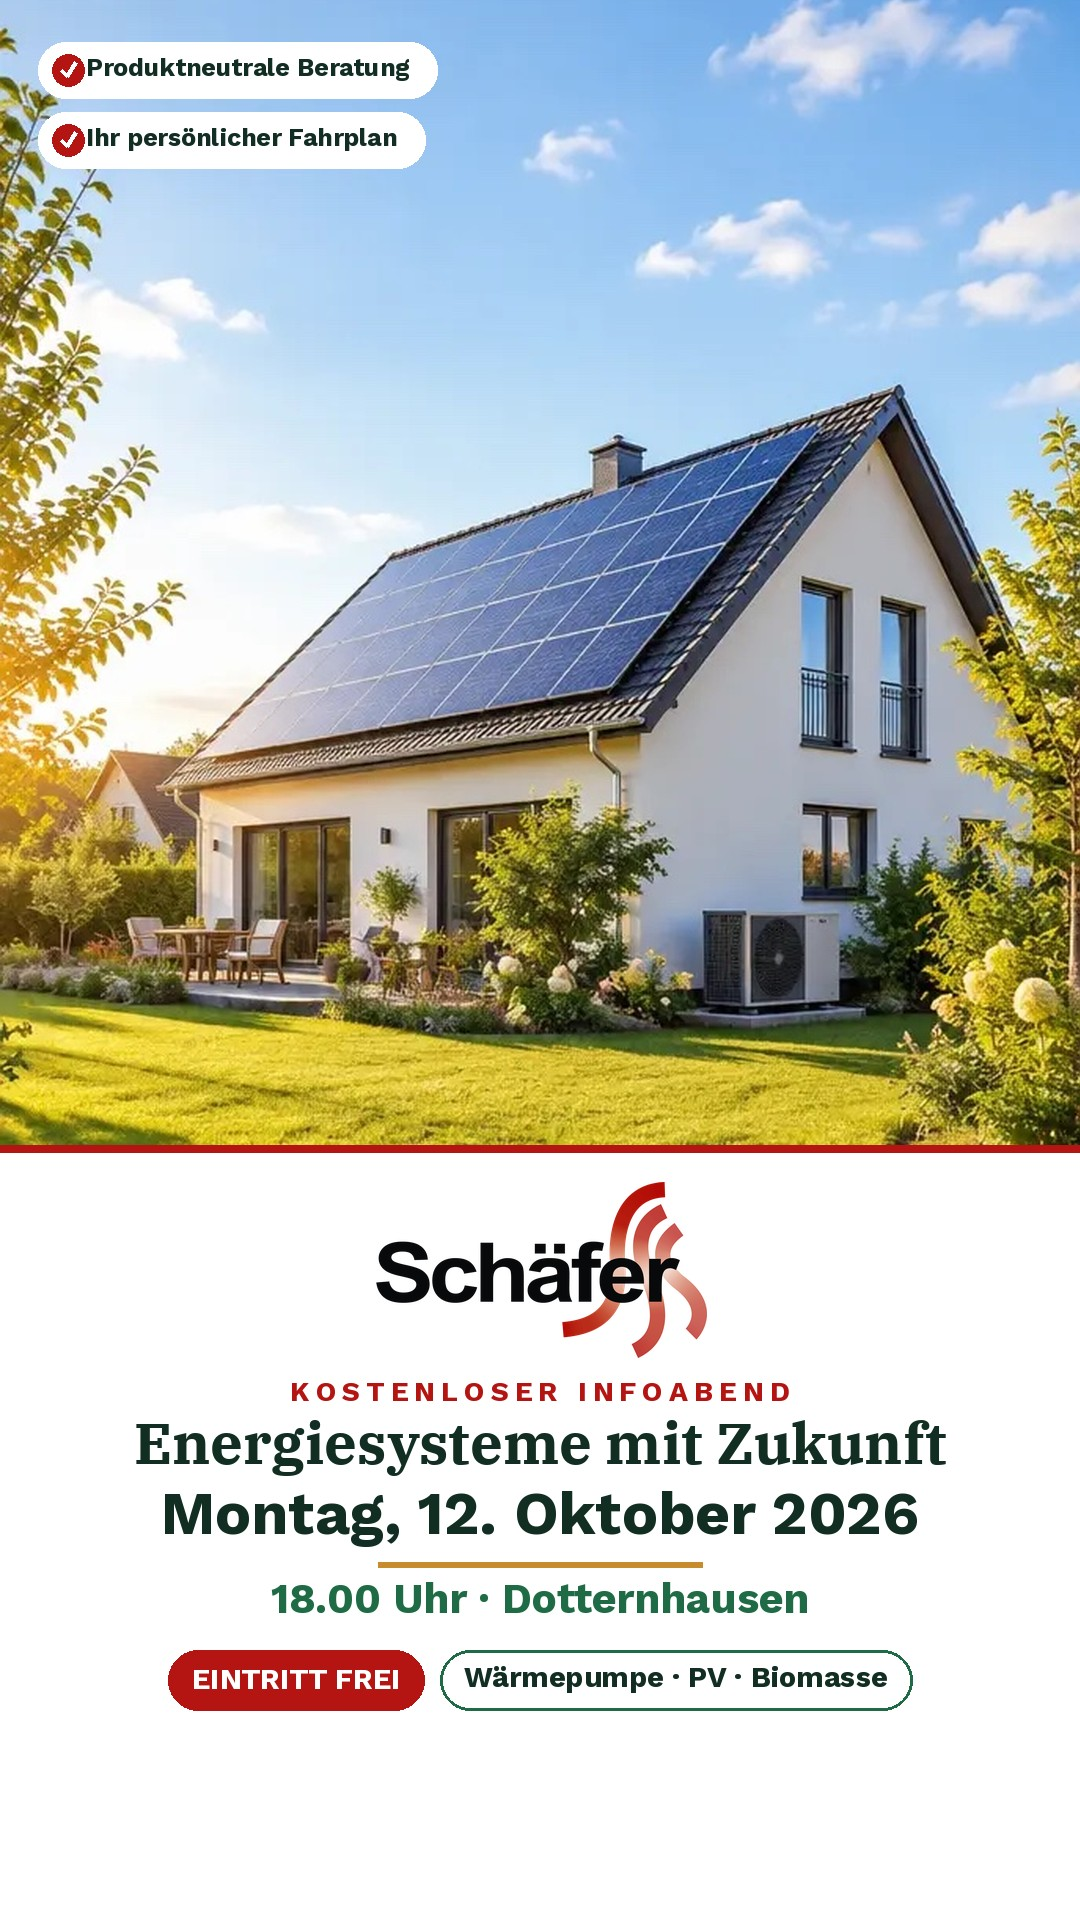
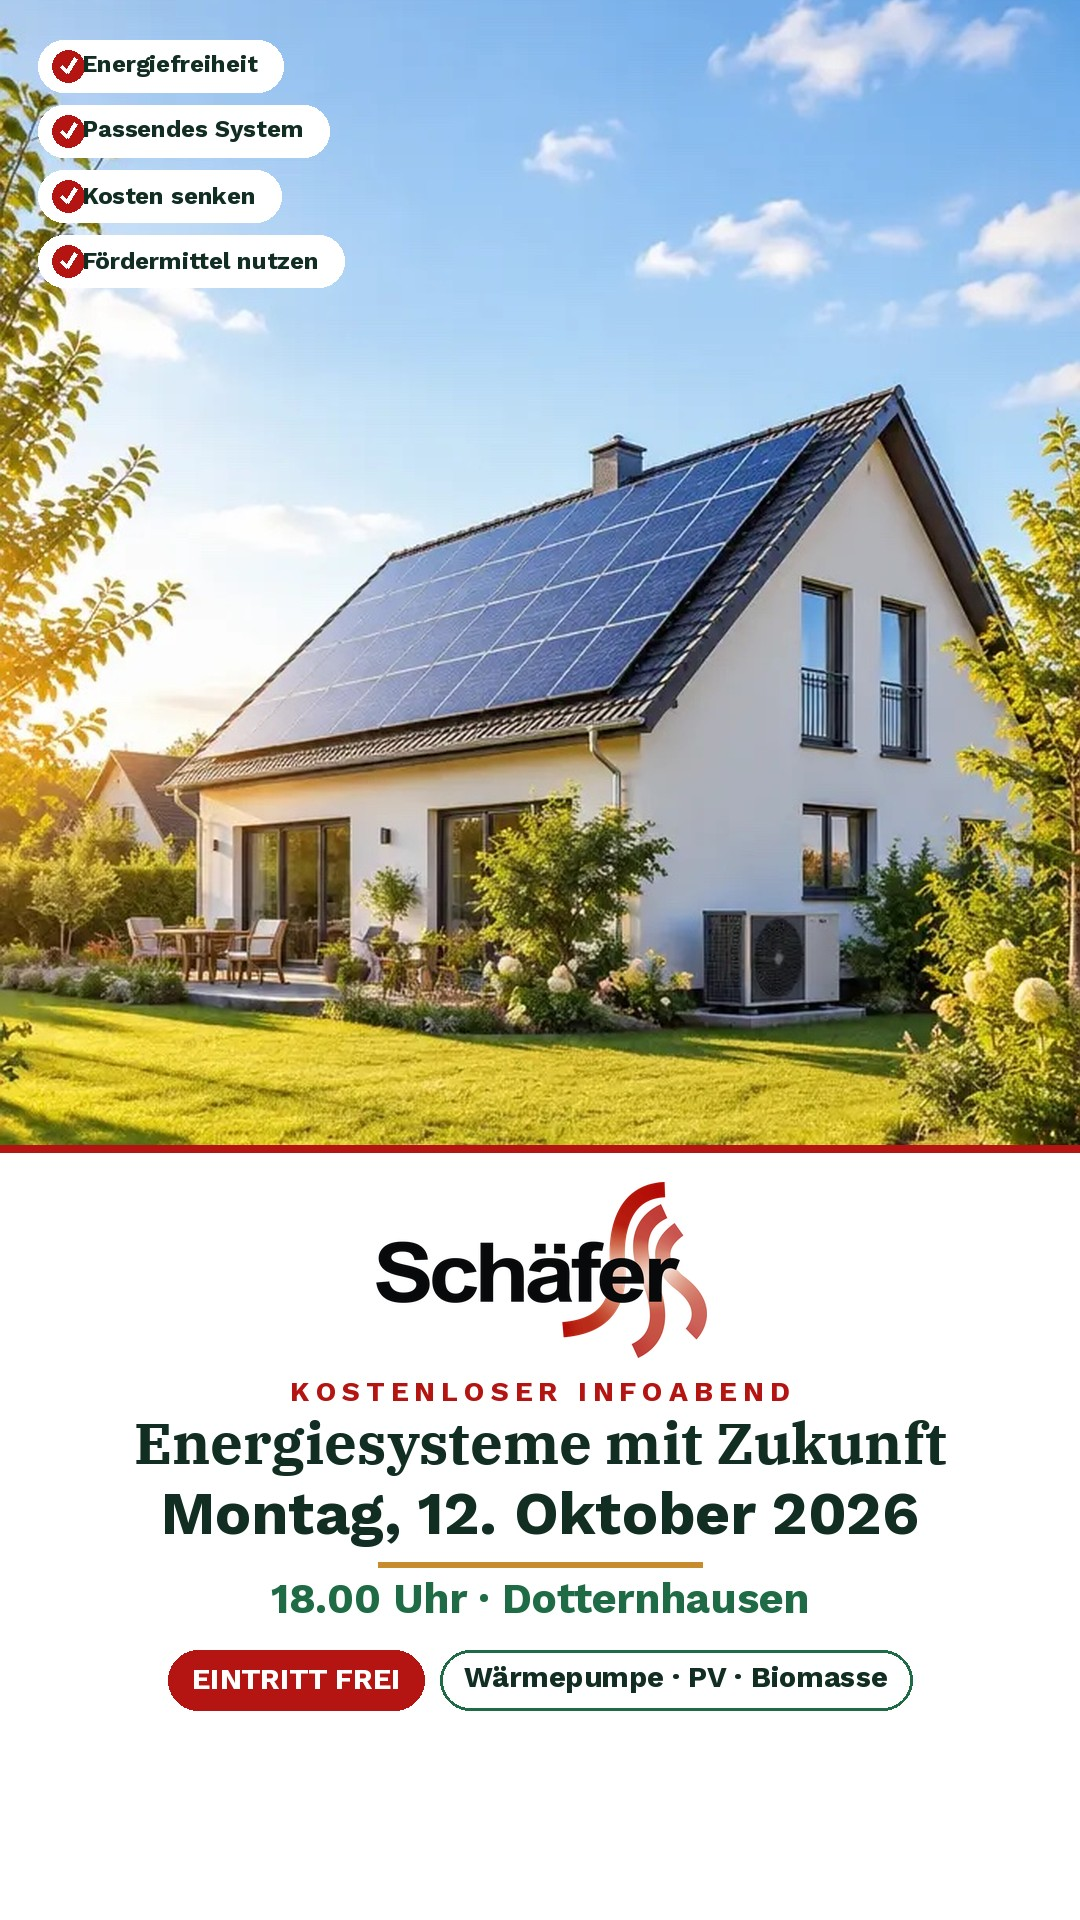
Event-Creative: 4 Schlagwoerter nach Schaefer-Flyer (Energiefreiheit/Passendes System/Kosten senken/Foerdermittel)
Claude-Session: https://claude.ai/code/session_0195Z1PjpkPHucqAk5ooUwCA

Changed region(s): [[0.0306, 0.0, 0.4278, 0.1562]]

diff --git a/tools_overlay_event.py b/tools_overlay_event.py
@@ -44,17 +44,17 @@ def make(size,frac,out):
     d=ImageDraw.Draw(canvas)
     # Schlagwort-Badges oben links auf dem Foto
     def badge(x,y,text):
-        bf=ImageFont.truetype(SANS,int(25*u)); tw=d.textlength(text,font=bf)
-        chk=int(48*u); pw=chk+tw+int(28*u); bh=int(56*u)
+        bf=ImageFont.truetype(SANS,int(24*u)); tw=d.textlength(text,font=bf)
+        chk=int(44*u); pw=chk+tw+int(26*u); bh=int(52*u)
         d.rounded_rectangle([x,y,x+pw,y+bh],radius=bh//2,fill=(255,255,255))
         cxc=x+int(30*u); cyc=y+bh//2; r=int(16*u)
         d.ellipse([cxc-r,cyc-r,cxc+r,cyc+r],fill=RED)
         d.line([(cxc-int(7*u),cyc),(cxc-int(1*u),cyc+int(6*u)),(cxc+int(8*u),cyc-int(8*u))],fill=(255,255,255),width=max(2,int(4*u)),joint="curve")
         bb=d.textbbox((0,0),text,font=bf); d.text((x+chk,cyc-(bb[3]-bb[1])/2-bb[1]),text,font=bf,fill=INK)
         return bh
-    bx=int(38*u); by=int(42*u)
-    h1=badge(bx,by,"Produktneutrale Beratung")
-    badge(bx,by+h1+int(14*u),"Ihr persönlicher Fahrplan")
+    bx=int(38*u); yy=int(40*u)
+    for it in ["Energiefreiheit","Passendes System","Kosten senken","Fördermittel nutzen"]:
+        yy+=badge(bx,yy,it)+int(13*u)
     # Markenkante an der Naht
     d.rectangle([0,ph-max(4,int(7*u)),W,ph],fill=RED)
     cx=W//2; y=ph+int(30*u)
